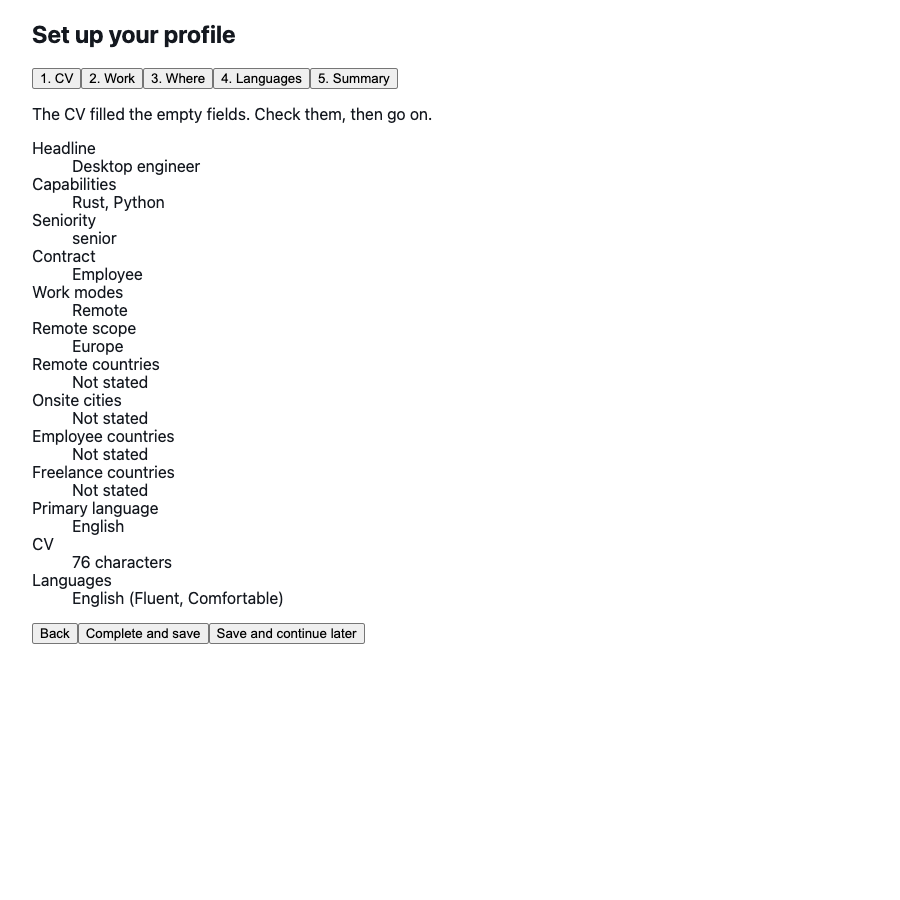
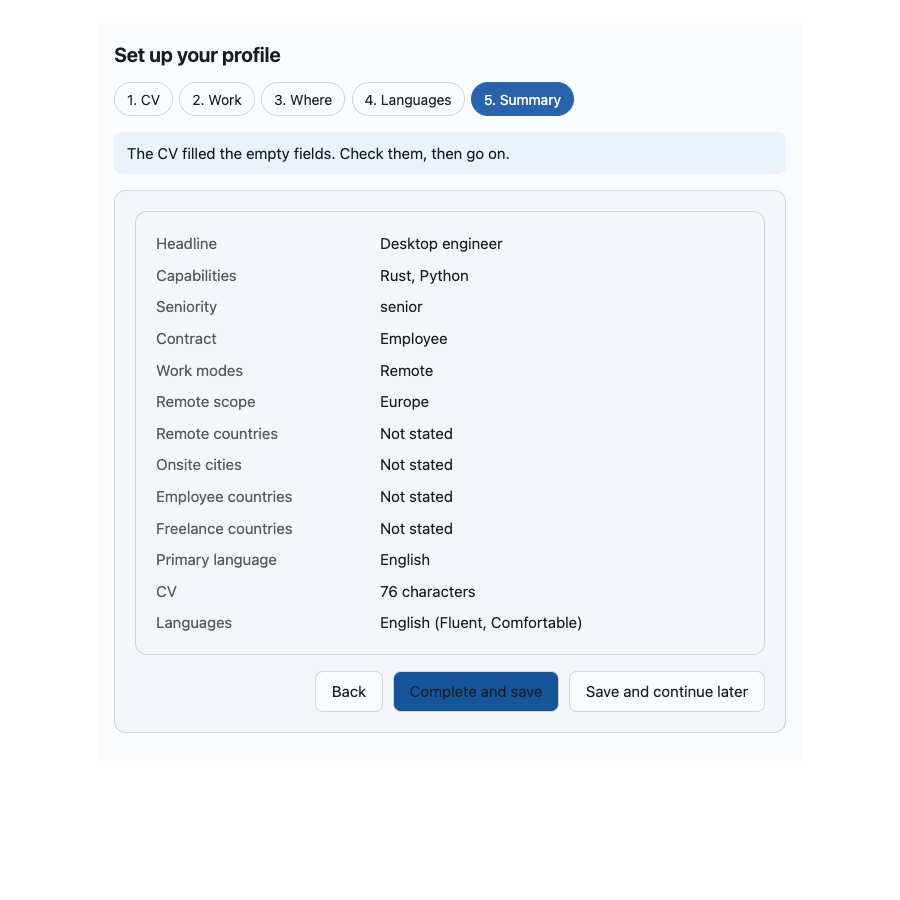
style(onboarding): give the wizard its own restrained stylesheet
The wizard had no styles, because the app's scoped stylesheet does not reach a child
component. It now carries a restrained palette with one accent, system fonts, a dark
theme that follows the system setting, a layout that wraps on a narrow screen, and a
primary style on the forward action. Text, labels and roles are unchanged.

The browser test passes 24 of 24, and the screenshots are refreshed.

diff --git a/poc/session-poc/ui/src/onboarding/OnboardingWizard.vue b/poc/session-poc/ui/src/onboarding/OnboardingWizard.vue
@@ -362,7 +362,7 @@ const applyHelp = (scope: ApplyScope): string => t(`apply.${scope}.help` as Mess
       <p v-if="cvFileName" class="notice">{{ t('cv.loaded', { name: cvFileName }) }}</p>
       <div class="actions">
         <button type="button" :disabled="busy || draft.cv.trim() === ''" @click="analyseCv">{{ t('action.analyse') }}</button>
-        <button type="button" @click="next">{{ t('action.next') }}</button>
+        <button type="button" class="primary" @click="next">{{ t('action.next') }}</button>
       </div>
       <fieldset>
         <legend>{{ t('portfolio.title') }}</legend>
@@ -414,7 +414,7 @@ const applyHelp = (scope: ApplyScope): string => t(`apply.${scope}.help` as Mess
       </label>
       <div class="actions">
         <button type="button" @click="back">{{ t('action.back') }}</button>
-        <button type="button" @click="next">{{ t('action.next') }}</button>
+        <button type="button" class="primary" @click="next">{{ t('action.next') }}</button>
         <button type="button" :disabled="busy" @click="saveForLater">{{ t('action.saveLater') }}</button>
       </div>
     </div>
@@ -461,7 +461,7 @@ const applyHelp = (scope: ApplyScope): string => t(`apply.${scope}.help` as Mess
       <p class="hint">{{ t('where.separateHint') }}</p>
       <div class="actions">
         <button type="button" @click="back">{{ t('action.back') }}</button>
-        <button type="button" @click="next">{{ t('action.next') }}</button>
+        <button type="button" class="primary" @click="next">{{ t('action.next') }}</button>
         <button type="button" :disabled="busy" @click="saveForLater">{{ t('action.saveLater') }}</button>
       </div>
     </div>
@@ -515,7 +515,7 @@ const applyHelp = (scope: ApplyScope): string => t(`apply.${scope}.help` as Mess
       </label>
       <div class="actions">
         <button type="button" @click="back">{{ t('action.back') }}</button>
-        <button type="button" @click="next">{{ t('action.summary') }}</button>
+        <button type="button" class="primary" @click="next">{{ t('action.summary') }}</button>
         <button type="button" :disabled="busy" @click="saveForLater">{{ t('action.saveLater') }}</button>
       </div>
     </div>
@@ -557,7 +557,7 @@ const applyHelp = (scope: ApplyScope): string => t(`apply.${scope}.help` as Mess
       </div>
       <div class="actions">
         <button type="button" @click="back">{{ t('action.back') }}</button>
-        <button type="button" :disabled="!finishable || busy" @click="finish">
+        <button type="button" class="primary" :disabled="!finishable || busy" @click="finish">
           {{ mode === 'first' ? t('action.finish') : t('action.saveChange') }}
         </button>
         <button type="button" :disabled="busy" @click="saveForLater">{{ t('action.saveLater') }}</button>
@@ -568,23 +568,298 @@ const applyHelp = (scope: ApplyScope): string => t(`apply.${scope}.help` as Mess
 </template>
 
 <style scoped>
+/* Restrained palette: tinted neutrals and one accent. Dark mode follows the system setting. */
+.wizard {
+  --surface: oklch(0.99 0.003 250);
+  --panel: oklch(0.975 0.005 250);
+  --ink: oklch(0.23 0.012 250);
+  --muted: oklch(0.47 0.012 250);
+  --line: oklch(0.87 0.008 250);
+  --accent: oklch(0.5 0.13 255);
+  --accent-hover: oklch(0.45 0.13 255);
+  --on-accent: oklch(0.99 0.003 250);
+  --focus: oklch(0.6 0.15 255);
+  --danger: oklch(0.5 0.18 27);
+  --danger-tint: oklch(0.96 0.02 27);
+  --info-tint: oklch(0.96 0.02 250);
+  max-width: 42rem;
+  margin: 0 auto;
+  padding: 1.25rem 1rem 2rem;
+  font-family: ui-sans-serif, -apple-system, BlinkMacSystemFont, "Segoe UI", system-ui, sans-serif;
+  font-size: 0.95rem;
+  line-height: 1.5;
+  color: var(--ink);
+  background: var(--surface);
+  display: grid;
+  gap: 1rem;
+}
+@media (prefers-color-scheme: dark) {
+  .wizard {
+    --surface: oklch(0.2 0.01 250);
+    --panel: oklch(0.24 0.01 250);
+    --ink: oklch(0.94 0.008 250);
+    --muted: oklch(0.72 0.01 250);
+    --line: oklch(0.37 0.01 250);
+    --accent: oklch(0.7 0.12 255);
+    --accent-hover: oklch(0.76 0.12 255);
+    --on-accent: oklch(0.2 0.01 250);
+    --focus: oklch(0.78 0.13 255);
+    --danger: oklch(0.78 0.14 27);
+    --danger-tint: oklch(0.28 0.04 27);
+    --info-tint: oklch(0.28 0.03 250);
+  }
+}
+
+header {
+  display: grid;
+  gap: 0.75rem;
+}
+h2 {
+  margin: 0;
+  font-size: 1.25rem;
+  font-weight: 650;
+  letter-spacing: -0.01em;
+}
+
+/* Steps: a row of pills that wraps on a narrow screen. */
+.steps {
+  display: flex;
+  flex-wrap: wrap;
+  gap: 0.4rem;
+}
+.steps button {
+  font: inherit;
+  font-size: 0.875rem;
+  padding: 0.35rem 0.75rem;
+  border-radius: 999px;
+  border: 1px solid var(--line);
+  background: var(--surface);
+  color: var(--ink);
+  cursor: pointer;
+}
+.steps button.on {
+  background: var(--accent);
+  color: var(--on-accent);
+  border-color: var(--accent);
+}
 .steps button.has-issues {
-  border-color: #b42318;
-  color: #b42318;
+  border-color: var(--danger);
+  color: var(--danger);
 }
-.flagged {
-  color: #b42318;
+.steps button.on.has-issues {
+  color: var(--on-accent);
+  background: var(--danger);
+  border-color: var(--danger);
 }
-.flagged ul {
-  margin: 0.25rem 0 0.75rem 1.25rem;
+
+/* One step at a time: a panel with the fields in a single column. */
+.pane {
+  display: grid;
+  gap: 1rem;
+  padding: 1.25rem;
+  border: 1px solid var(--line);
+  border-radius: 12px;
+  background: var(--panel);
 }
-.flagged button.link {
+.pane > p {
+  margin: 0;
+  color: var(--muted);
+}
+label {
+  display: grid;
+  gap: 0.3rem;
+  font-weight: 500;
+}
+label:has(> input[type="checkbox"]),
+label:has(> input[type="radio"]) {
+  display: flex;
+  align-items: center;
+  gap: 0.5rem;
+  font-weight: 400;
+}
+input,
+select,
+textarea {
+  font: inherit;
+  color: var(--ink);
+  background: var(--surface);
+  border: 1px solid var(--line);
+  border-radius: 8px;
+  padding: 0.5rem 0.65rem;
+  width: 100%;
+  box-sizing: border-box;
+}
+input[type="checkbox"],
+input[type="radio"] {
+  width: auto;
+  margin: 0;
+  accent-color: var(--accent);
+}
+textarea {
+  resize: vertical;
+}
+input:focus-visible,
+select:focus-visible,
+textarea:focus-visible,
+button:focus-visible {
+  outline: 2px solid var(--focus);
+  outline-offset: 2px;
+}
+
+fieldset {
+  display: grid;
+  gap: 0.6rem;
+  margin: 0;
+  padding: 0.9rem 1rem;
+  border: 1px solid var(--line);
+  border-radius: 10px;
+  min-width: 0;
+}
+legend {
+  padding: 0 0.35rem;
+  font-weight: 600;
+}
+
+.row {
+  display: grid;
+  gap: 0.75rem;
+  grid-template-columns: repeat(auto-fit, minmax(12rem, 1fr));
+}
+.list {
+  list-style: none;
+  margin: 0;
+  padding: 0;
+  display: grid;
+  gap: 0.4rem;
+}
+
+/* Actions: the button that moves forward is marked primary; the others stay quiet. */
+.actions {
+  display: flex;
+  flex-wrap: wrap;
+  gap: 0.6rem;
+  justify-content: flex-end;
+}
+.actions button,
+.wizard button:not(.steps button):not(.link) {
+  font: inherit;
+  padding: 0.5rem 1rem;
+  border-radius: 8px;
+  border: 1px solid var(--line);
+  background: var(--surface);
+  color: var(--ink);
+  cursor: pointer;
+}
+.actions button.primary:not(:disabled) {
+  background: var(--accent);
+  border-color: var(--accent);
+  color: var(--on-accent);
+}
+.actions button.primary:not(:disabled):hover {
+  background: var(--accent-hover);
+}
+.actions button:hover:not(:disabled) {
+  background: var(--panel);
+}
+button:disabled {
+  opacity: 0.5;
+  cursor: not-allowed;
+}
+button.link {
   background: none;
   border: 0;
   padding: 0;
-  color: #b42318;
-  font-weight: 600;
+  font: inherit;
+  color: var(--accent);
   text-decoration: underline;
   cursor: pointer;
+}
+
+/* Messages: a notice for what happened, a hint for what to do, issues in red. */
+.notice {
+  margin: 0;
+  padding: 0.6rem 0.8rem;
+  border-radius: 8px;
+  background: var(--info-tint);
+}
+.hint {
+  margin: 0;
+  color: var(--muted);
+  font-size: 0.9rem;
+}
+.issues {
+  margin: 0;
+  padding: 0.6rem 0.8rem 0.6rem 2rem;
+  border: 1px solid var(--danger);
+  border-radius: 8px;
+  background: var(--danger-tint);
+  color: var(--danger);
+}
+.flagged {
+  display: grid;
+  gap: 0.5rem;
+  padding: 0.9rem 1rem;
+  border: 1px solid var(--danger);
+  border-radius: 10px;
+  background: var(--danger-tint);
+  color: var(--danger);
+}
+.flagged p {
+  margin: 0;
+  font-weight: 600;
+}
+.flagged ul {
+  margin: 0 0 0.5rem 1.25rem;
+}
+
+/* The summary: a label column and a value column, one column on a narrow screen. */
+.summary {
+  display: grid;
+  grid-template-columns: minmax(8rem, 13rem) 1fr;
+  gap: 0.55rem 1rem;
+  margin: 0;
+  padding: 1.25rem;
+  border: 1px solid var(--line);
+  border-radius: 12px;
+  background: var(--panel);
+}
+.summary dt {
+  color: var(--muted);
+}
+.summary dd {
+  margin: 0;
+  overflow-wrap: anywhere;
+}
+
+.scope {
+  display: grid;
+  gap: 0.15rem;
+  padding: 0.6rem 0.75rem;
+  border: 1px solid var(--line);
+  border-radius: 8px;
+  background: var(--surface);
+}
+.scope span {
+  color: var(--muted);
+  font-size: 0.9rem;
+}
+
+@media (max-width: 30rem) {
+  .wizard {
+    padding: 1rem 0.75rem 1.5rem;
+  }
+  .pane {
+    padding: 1rem;
+  }
+  .summary {
+    grid-template-columns: 1fr;
+    padding: 1rem;
+  }
+  .summary dt {
+    margin-top: 0.4rem;
+  }
+  .actions button {
+    flex: 1 1 auto;
+  }
 }
 </style>

diff --git a/odd/tasks/onboarding-search-profile.md b/odd/tasks/onboarding-search-profile.md
@@ -145,3 +145,4 @@ L102 Pre-fill with AI (user request): the extraction now proposes the contract t
 L103 Pre-fill with AI (user request): the CV analysis fills the empty fields at once (no checkboxes), with the contract types it states; the portfolio fills the empty fields too, not only the languages. The summary of the last step now shows the missing fields in red. Usage per language stays the user's choice. RED: the portfolio and contract tests failed first (function missing). GREEN: UI suite 57 pass; vue-tsc exit 0; browser E2E 24 of 24 on the automatic flow.
 L104 Review cleanup. UI: the saved profile applies the draft's residence rule (two upper-case letters), and the contract list is the shared constant. RED: the residence test failed on the old schema. Agent: the scorer read the languages as soft when the setting said so ("Languages (preferred)"), but the languages are always a hard filter. Fixed the label to say so, and updated the test that pinned the old label. A refused setting was not chosen: the existing tests already treat the setting as ignored. RED: the new prompt-context test failed first. GREEN: job-agent suite 269 pass, tsc exit 0.
 L105 Decision (user): the primary language is chosen by the user and is the interface language; any other language the user speaks is added, and every chosen language is a filter on the postings. So the language preference does not exist: the agent refuses a language strength, the wizard writes none, and the funnel tests no longer set one. RED: the agent refusal test failed first. Note: the UI test for the missing strength was rewritten together with its code, so its RED was not observed separately. GREEN: job-agent suite 269 pass, tsc exit 0; UI suite 59 pass, vue-tsc exit 0.
+L106 Styling (user request). The wizard had no styles: the app's scoped stylesheet does not reach a child component. The wizard now carries its own stylesheet: restrained palette (tinted neutrals and one accent), system fonts, a dark theme that follows the system setting, a single-column layout that wraps on a narrow screen, and the forward action marked as primary. Text, labels and roles are unchanged. Browser test 24 of 24; screenshots refreshed.
